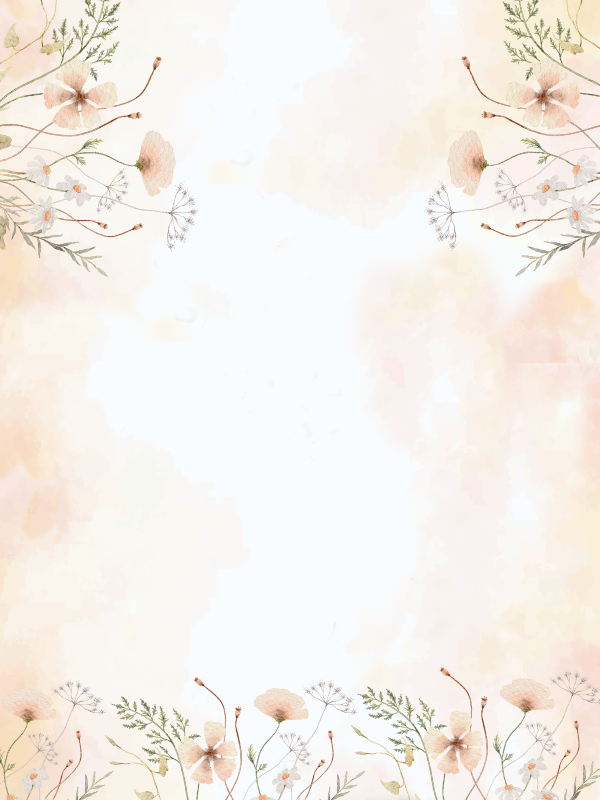
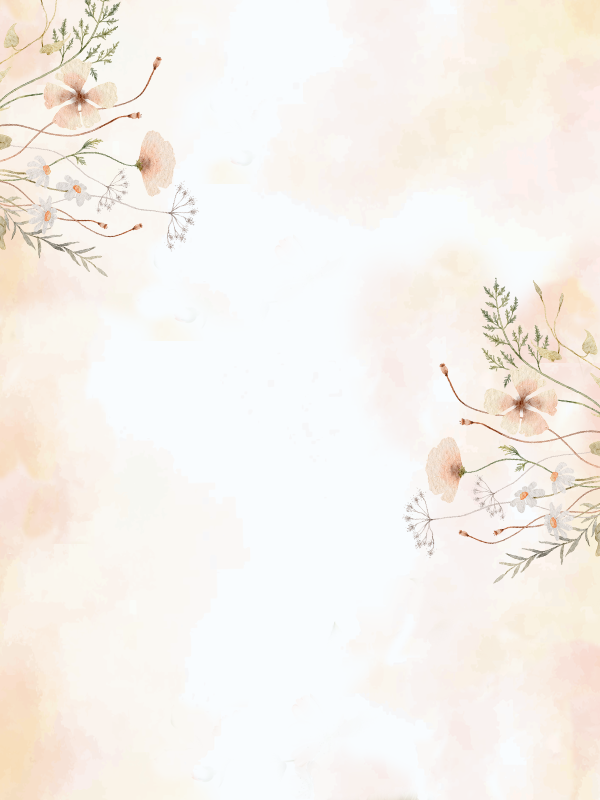
otrs

diff --git a/css/styles.css b/css/styles.css
@@ -32,7 +32,7 @@ body {
 
 /* Seccion de Agradecimiento */
 .seccion-agradecimiento {
-    background-image: url('../assets/fondo2.png'); /* Reemplaza 'ruta/a/tu/imagen3.jpg' con la ruta correcta de tu imagen de fondo */
+    background-image: url('../assets/fondo4.png'); /* Reemplaza 'ruta/a/tu/imagen3.jpg' con la ruta correcta de tu imagen de fondo */
     background-size: cover;
     background-position: center;
     color: #776C60; /* Color de texto para que sea legible en el fondo */
@@ -77,16 +77,16 @@ body {
     font-size: 1em;
     margin: 10px 0;
 }
-
+a {
+    text-decoration: none; /* Quitar subrayado */
+    color: inherit; /* Heredar el color del texto */
+}
 .btn-mapa {
-    background-color: #776C60;
-    color: white;
+    background-color: #776C60; /* Color de fondo del botón */
+    color: #fff; /* Color de texto del botón */
     padding: 10px 20px;
-    text-align: center;
-    text-decoration: none;
-    display: inline-block;
-    font-size: 16px;
-    margin: 10px 0;
+    border: none;
+    border-radius: 20px;
     cursor: pointer;
 }
 
